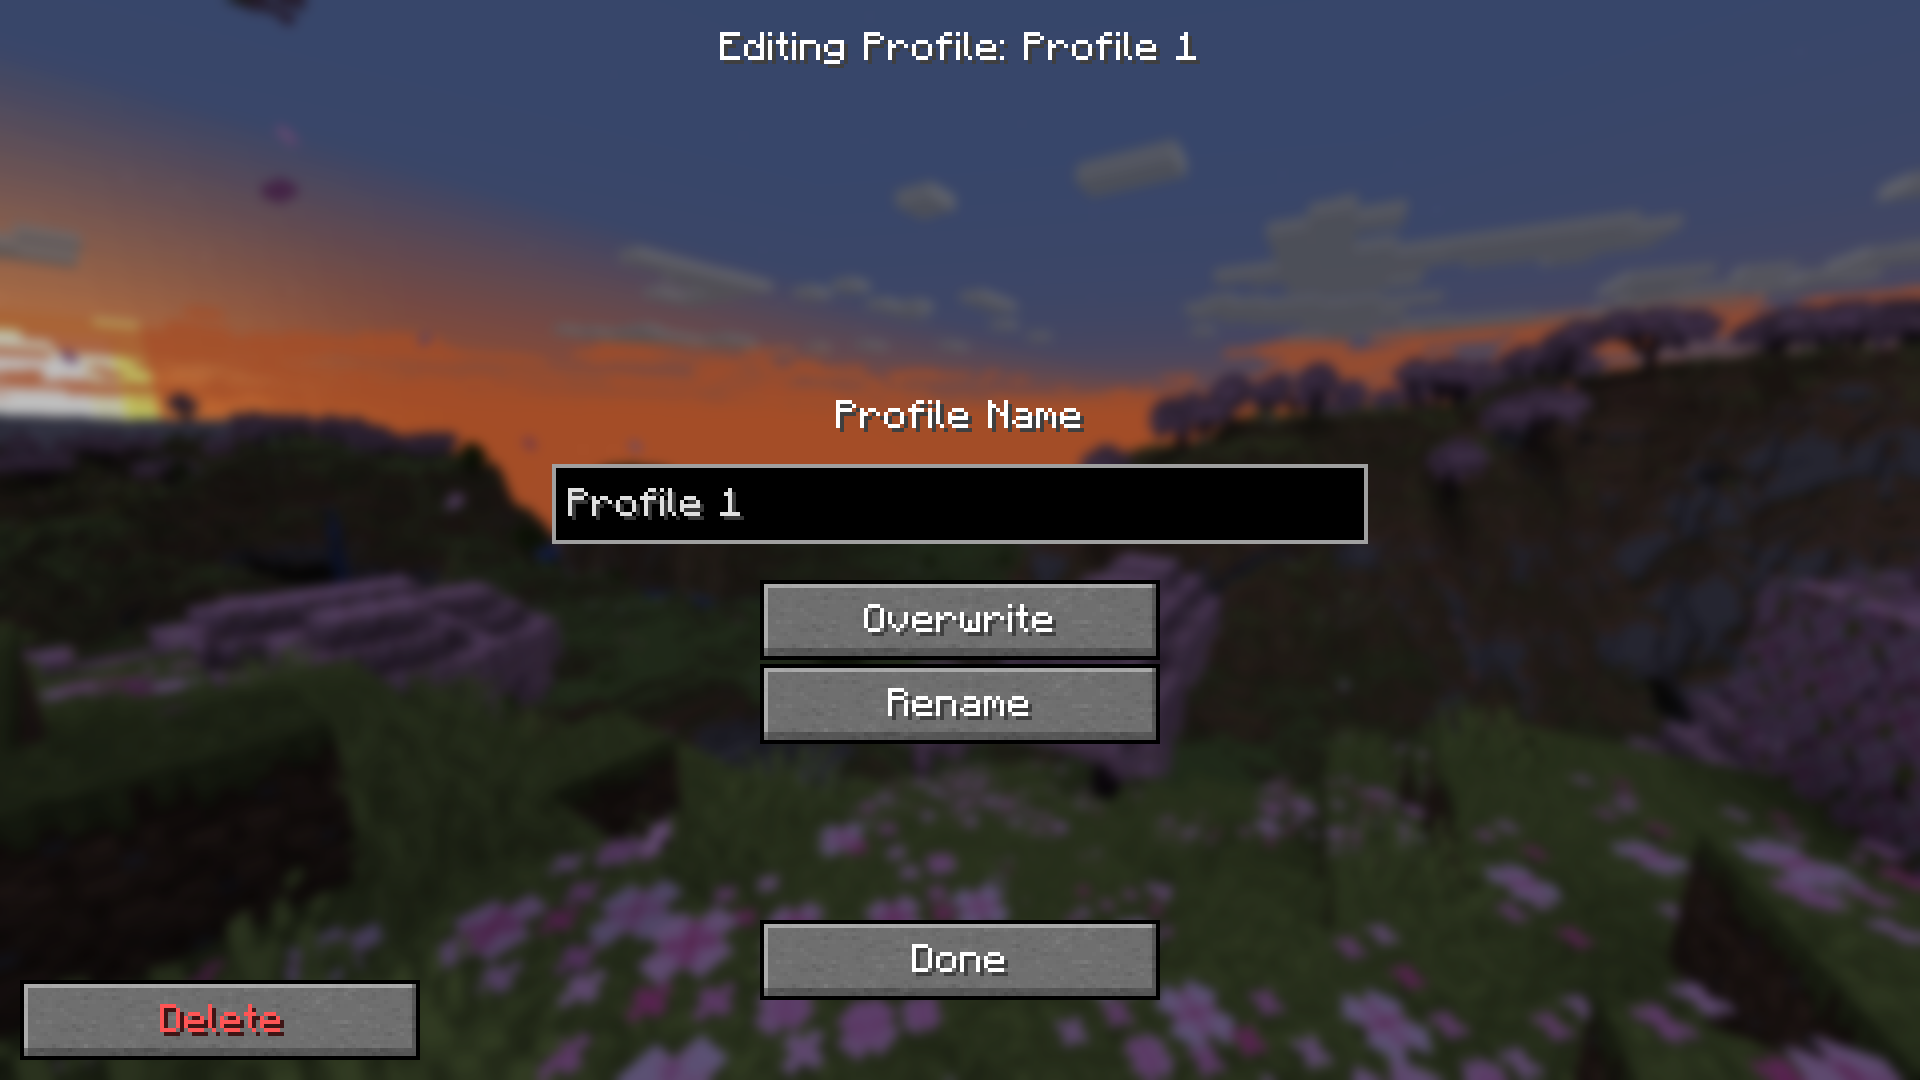
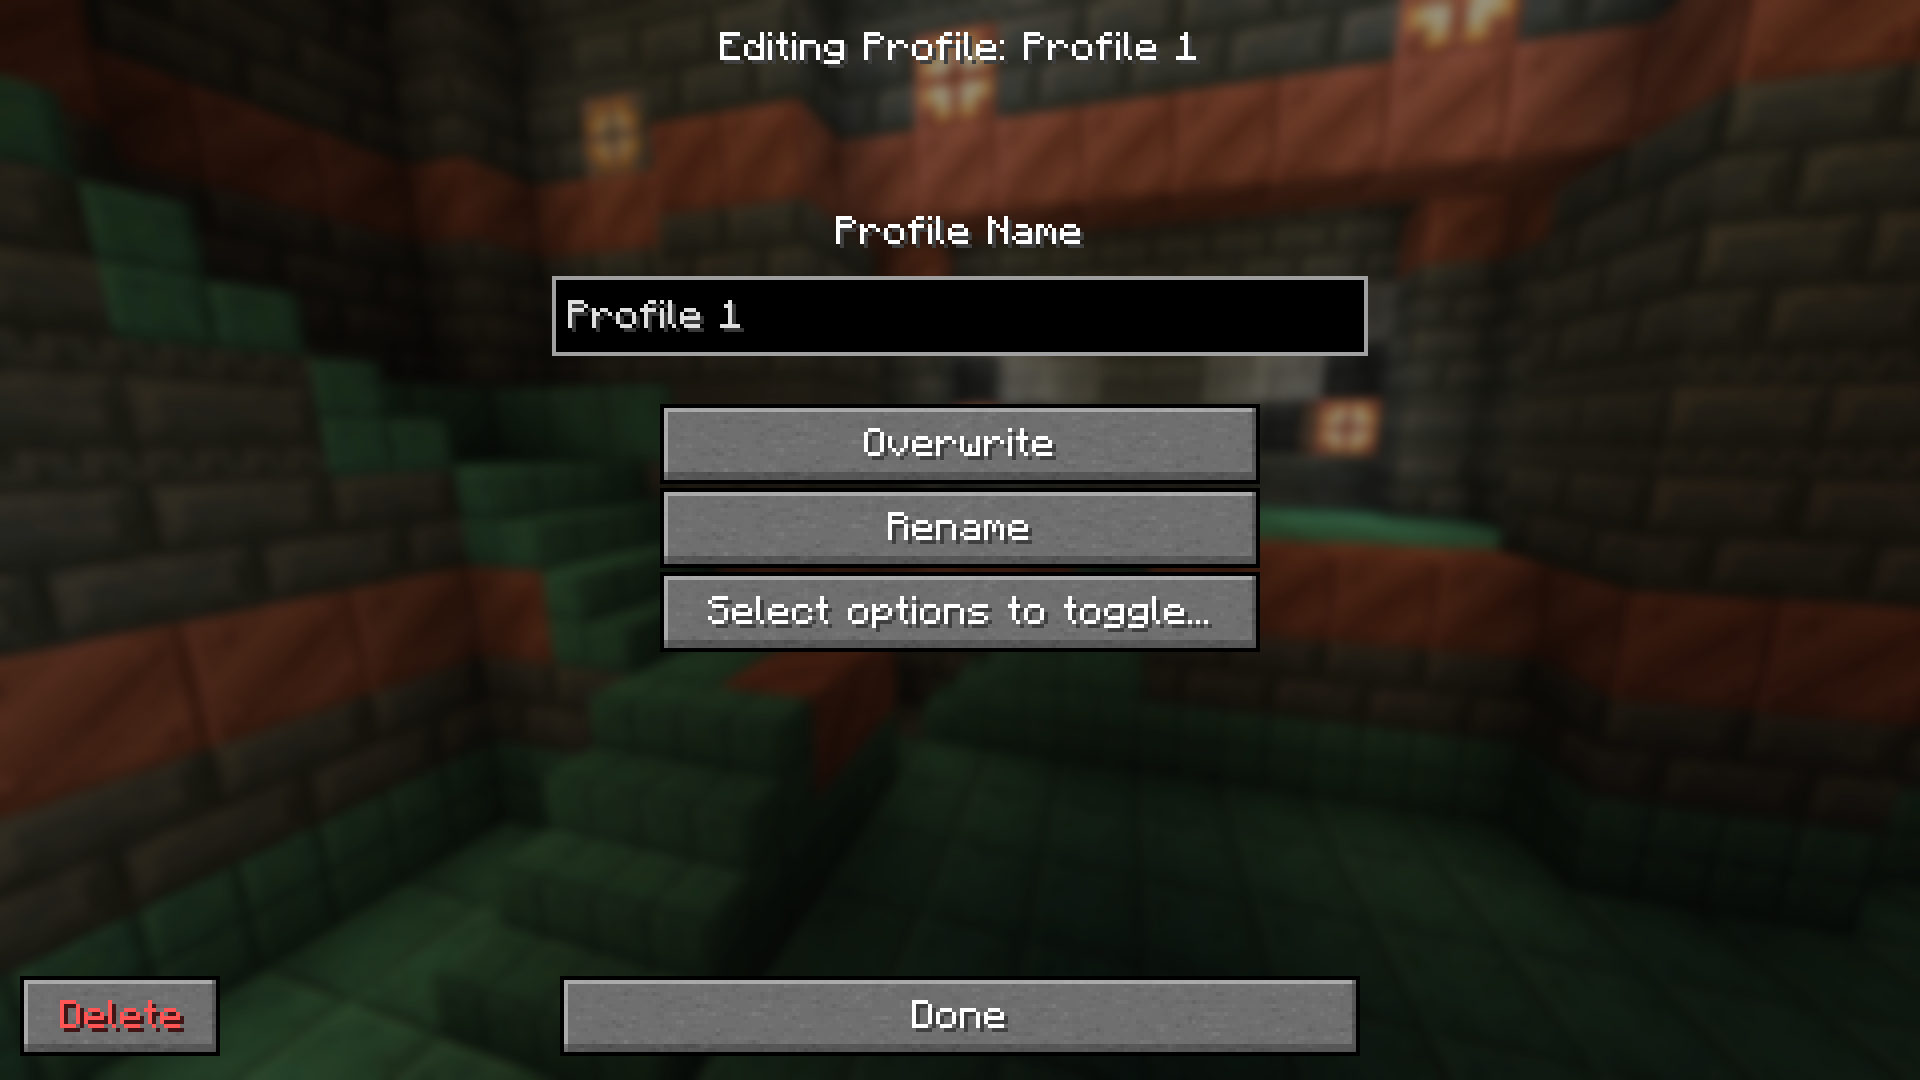
Add options toggle menu image to README.md
Also cleaned up the README and added a section for mod support

diff --git a/README.md b/README.md
@@ -4,27 +4,45 @@
 [![Curseforge](https://github.com/intergrav/devins-badges/blob/v3/assets/cozy/available/curseforge_64h.png?raw=true)](https://curseforge.com/minecraft/mc-mods/options-profiles)
 [![GitHub](https://github.com/intergrav/devins-badges/blob/v3/assets/cozy/available/git_64h.png?raw=true)](https://github.com/AxolotlMaid/options-profiles)
 
-Options Profiles lets you load and save your options as profiles from in-game.
-
-## Frequently Asked Questions
-- If you would like a version ported, open an issue.
-- Versions 1.1 require Architectury API, however versions 1.2+ does not.
-- You may use this mod in modpacks / clients with credit.
-- You can find other versions in the branches.<br/>
-
-Contact: hello@axolotlmaid.com
-
+Options Profiles is a Minecraft mod that lets you load and save your options as profiles from in-game.
 
 ## Features
-- Profiles are saved in a folder called "options-profiles" in the specified ".minecraft" directory.
-- Sodium and Optifine support
-- Forge and Fabric support
-- Resource packs support
-- Save current options
-- Edit profiles in-game (deleting, renaming, overwriting)
+- Save and load profiles in-game
+- Load specific options (like only load keybinds, resource packs or FOV and GUI scale)
+- Edit profiles in-game (deleting, renaming, overwriting, pick options  to only load)
+- Fabric, NeoForge, Forge support
+- Third party mod support (see below)
+
+## Mod Support
+Options Profiles supports these mods which means you can create and load profiles with them and the mod will load their configuration.
+
+- Sodium
+- Sodium Extra
+- Embeddium
+- Distant Horizons
+- OptiFine
+
+If you would like support for another mod, open an issue.
+
+## Frequently Asked Questions
+- Can you port [version]?
+    > Open an issue in the GitHub repository.
+- Can I use this in my modpack?
+    > You may use this mod in modpacks with credit.
+- Where are the profiles saved?
+    > Profiles are saved in a folder called "options-profiles" in the specified ".minecraft" directory.
+- Where can I find the source code for older versions?
+    > You can find them in the branches.
+- Dependencies?
+    > Versions 1.1 require Architectury API, however versions 1.2+ do not.
+- For any other questions, create an issue or contact me at hello@axolotlmaid.com
 
 ## Gallery
 
-Profiles Menu              | Edit Profile Screen       | Options Screen
-:-------------------------:|:-------------------------:|:-------------------------:
-<img src="gallery/profiles-menu.png" alt="profiles list" width="500"/> | <img src="gallery/edit-profile-screen.png" alt="edit profile screen" width="500"/> | <img src="gallery/options-screen.png" alt="options screen" width="500"/>
+Profiles Menu              | Edit Profile Screen       
+:-------------------------:|:-------------------------:
+<img src="gallery/profiles-menu.png" alt="profiles list"/> | <img src="gallery/edit-profile-screen.png" alt="edit profile screen"/>
+
+Options Toggle Menu        | Options Screen     
+:-------------------------:|:-------------------------:
+<img src="gallery/options-toggle-menu.png" alt="options toggle menu"/> | <img src="gallery/options-screen.png" alt="options screen"/>
